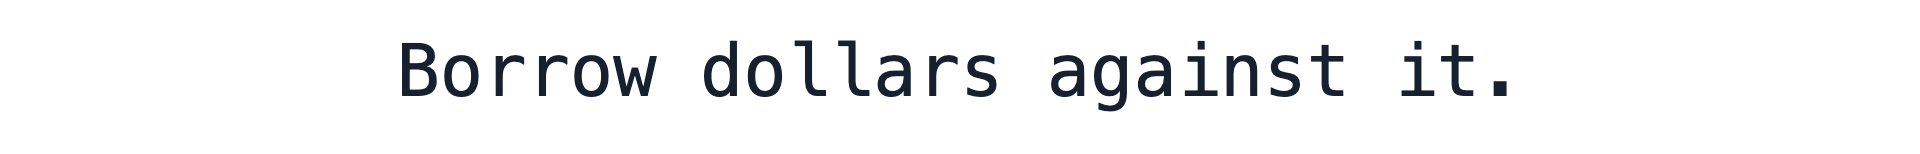
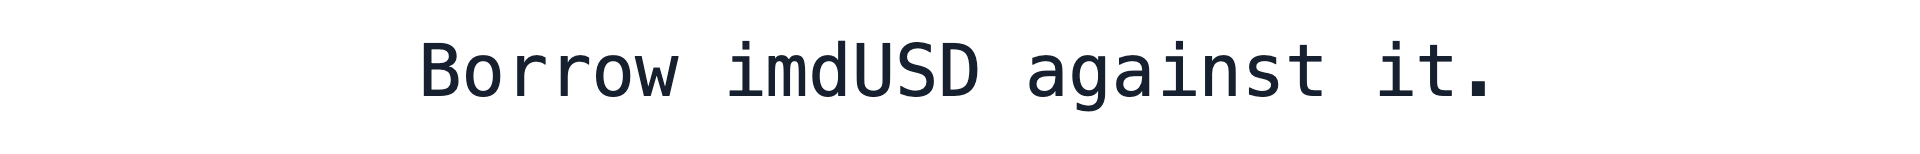
marketing/explainer/film-a: LIVE keeps blinking in terminal green, the chip fits it, "Borrow imdUSD", the note stays whole into liquidation
The end card's LIVE is glowing terminal green (#14B85A, no block) and blinks to the end, lit 0.6 s of every
second; the chip sizes to MAINNET · LIVE. Caption a1b reads "Borrow imdUSD against it." Beat 4 no longer
strips the note to its corners: every layer stays through the transition.

Claude-Session: https://claude.ai/code/session_018mD8VTdZpm25fWMGf2XJAX

Changed region(s): [[0.1875, 0.2597, 0.8125, 0.7273], [0.5938, 0.2597, 0.625, 0.3117]]

diff --git a/marketing/explainer/layers.html b/marketing/explainer/layers.html
@@ -139,7 +139,7 @@ lines["coin-simd"] = coin("sIMD");
 // One file per caption per ink. The video overlays them; nothing else letters anything.
 const CAPTIONS = {
   "a1": "Deposit IMD. It is staked as sIMD.",
-  "a1b": "Borrow dollars against it.",
+  "a1b": "Borrow imdUSD against it.",
   "a2": "The price is a question.\nA panel of agents answers it.",
   "a3": "Every note redeems for a dollar of IMD.",
   "a4": "Fall below the credit line\nand you risk liquidation.",

diff --git a/marketing/explainer/film-a/render.py b/marketing/explainer/film-a/render.py
@@ -322,16 +322,20 @@ def main():
     run(['-f', 'lavfi', '-i', f'color=c=0x{PAL["ivory"][1:]}:s={W}x{H}:r={FPS}', '-vf', 'format=gbrp',
          '-frames:v', 2, '-c:v', 'ffv1', flash])
     endcard = ROOT / f'marketing/kit/endcard/endcard-{Wf}x{Hf}.png'
-    blank, live = endcard.with_name(endcard.stem + '-blank.png'), endcard.with_name(endcard.stem + '-live.png')
-    if blank.exists() and live.exists():
-        # The status chip blinks from STAGING to LIVE (as in film B): off 0.80-0.95, on, off 1.10-1.25, then LIVE.
+    blank = endcard.with_name(endcard.stem + '-blank.png')
+    lit, dark = endcard.with_name(endcard.stem + '-term.png'), endcard.with_name(endcard.stem + '-term-off.png')
+    if blank.exists() and lit.exists() and dark.exists():
+        # STAGING blinks off 0.80-0.95, on, off 1.10-1.25, then LIVE in terminal green (a soft glow, no block),
+        # which keeps blinking to the end: lit 0.6 s of every 1.0 s.
         sc = f'scale={W}:{H}:flags=lanczos,format=gbrp'
-        g = (f'[0:v]{sc}[c0];[1:v]{sc}[b];[2:v]{sc}[l];[b]split[b1][b2];'
+        g = (f'[0:v]{sc}[c0];[1:v]{sc}[b];[2:v]{sc}[d];[3:v]{sc}[l];[b]split[b1][b2];'
              "[c0][b1]overlay=0:0:enable='between(t,0.80,0.95)'[c1];"
              "[c1][b2]overlay=0:0:enable='between(t,1.10,1.25)'[c2];"
-             "[c2][l]overlay=0:0:enable='gte(t,1.25)',format=gbrp[v]")   # same pixel format as the segments (concat)
+             "[c2][d]overlay=0:0:enable='gte(t,1.25)'[c3];"
+             "[c3][l]overlay=0:0:enable='gte(t,1.25)*lt(mod(t-1.25,1.0),0.6)',format=gbrp[v]")   # segments' format (concat)
         run(['-loop', 1, '-framerate', FPS, '-i', endcard, '-loop', 1, '-framerate', FPS, '-i', blank,
-             '-loop', 1, '-framerate', FPS, '-i', live, '-filter_complex', g, '-map', '[v]',
+             '-loop', 1, '-framerate', FPS, '-i', dark, '-loop', 1, '-framerate', FPS, '-i', lit,
+             '-filter_complex', g, '-map', '[v]',
              '-frames:v', NFRAMES - HIT_FRAME - 2, '-c:v', 'ffv1', card])
     else:
         run(['-loop', 1, '-framerate', FPS, '-i', endcard, '-vf', f'scale={W}:{H}:flags=lanczos,format=gbrp',

diff --git a/marketing/explainer/film-a/plan.py b/marketing/explainer/film-a/plan.py
@@ -205,7 +205,9 @@ def build(aspect, kicker='a5'):
     # --- the note's layers (stackOrder), with the isolate / reassemble alphas of each beat
     every = ['paper', 'border', 'rosette', 'portrait', 'seal', 'corners', 'banner', 'serials']
     keep = {  # layers that stay while the beat isolates its element
-        1: {'portrait'}, 2: {'paper', 'rosette'}, 3: {'paper', 'seal'}, 4: {'paper', 'corners'}}
+        1: {'portrait'}, 2: {'paper', 'rosette'}, 3: {'paper', 'seal'},
+        # beat 4 (review 2026-10-07): the note stays whole into the liquidation beat; nothing isolates
+        4: {'paper', 'border', 'rosette', 'portrait', 'seal', 'corners', 'banner', 'serials'}}
     def iso(name, beat, out, back, d=.6):
         return [] if name in keep[beat] else [(out, out + d, 0.0), (back, back + d, 1.0)]
     for name in every:
